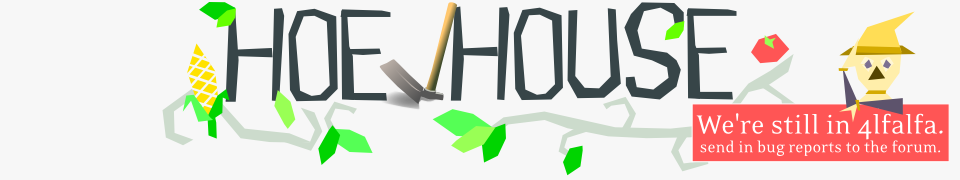
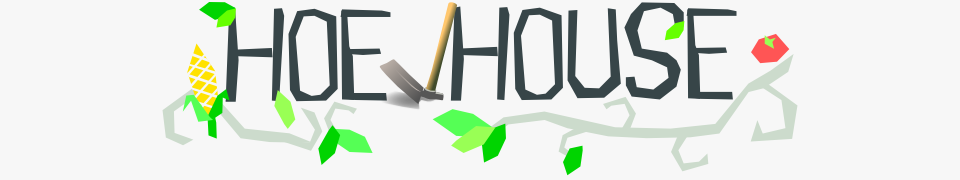
4lfalfa has hover state and linkage.

Changed region(s): [[0.7188, 0.0833, 1.0, 0.9167]]

diff --git a/hoe-house/html/css/hoe.css b/hoe-house/html/css/hoe.css
@@ -95,6 +95,19 @@ div.header{
 	position:relative;
 }
 
+#alfa{
+	display:block;
+	position:absolute;
+	top:0px;
+	right:0px;
+	width:270px;
+	height:165px;
+	background-image:url('/art/4lfalfa.png')
+}
+#alfa:hover{
+	background-image:url('/art/4lfalfa1.png')
+}
+
 #tv_switch{
 	display:block;
 	position:absolute;
